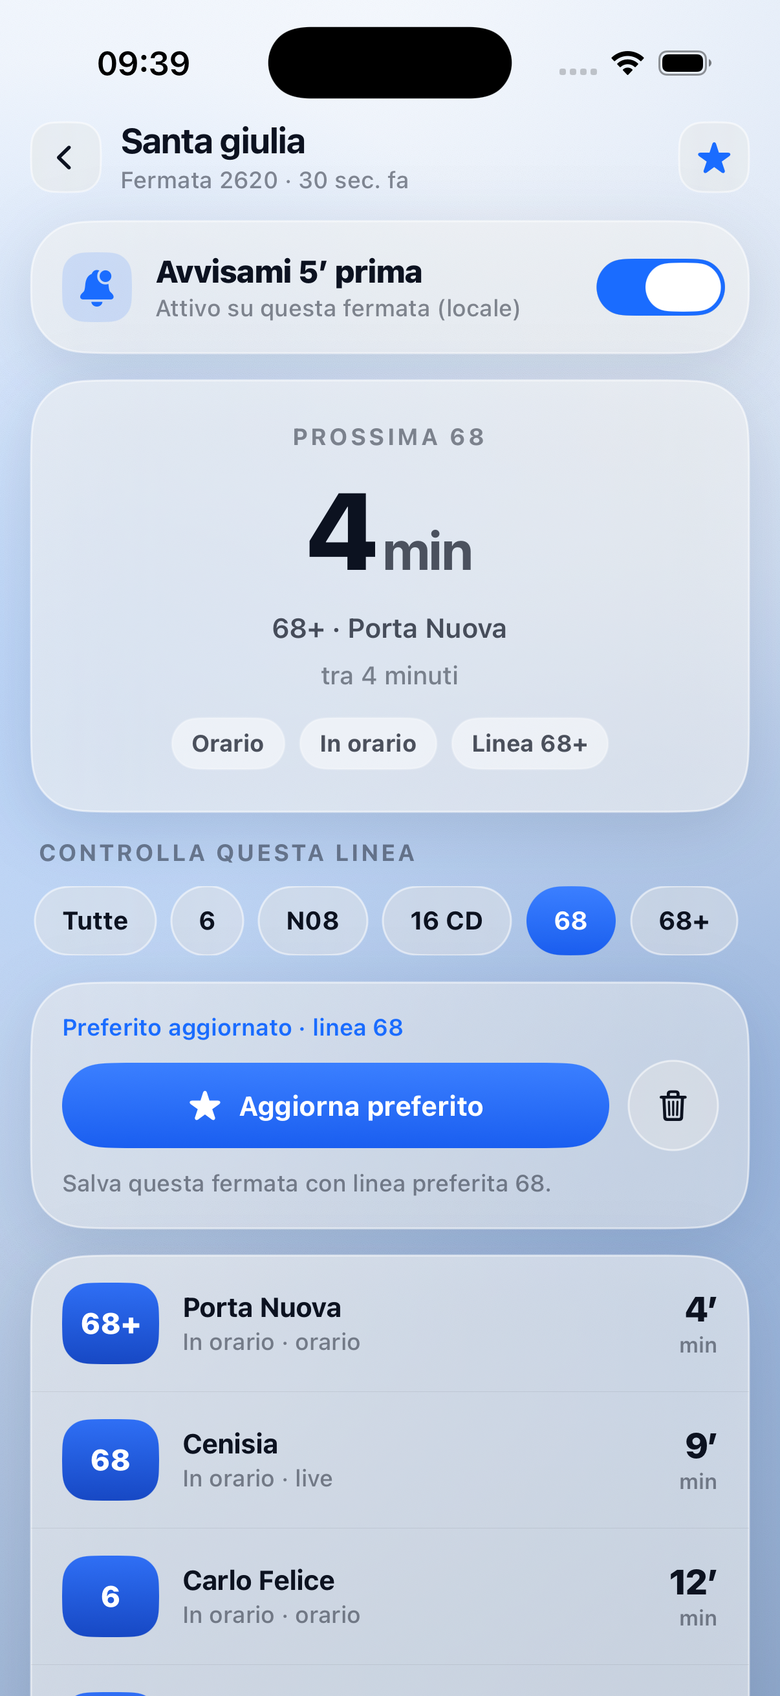
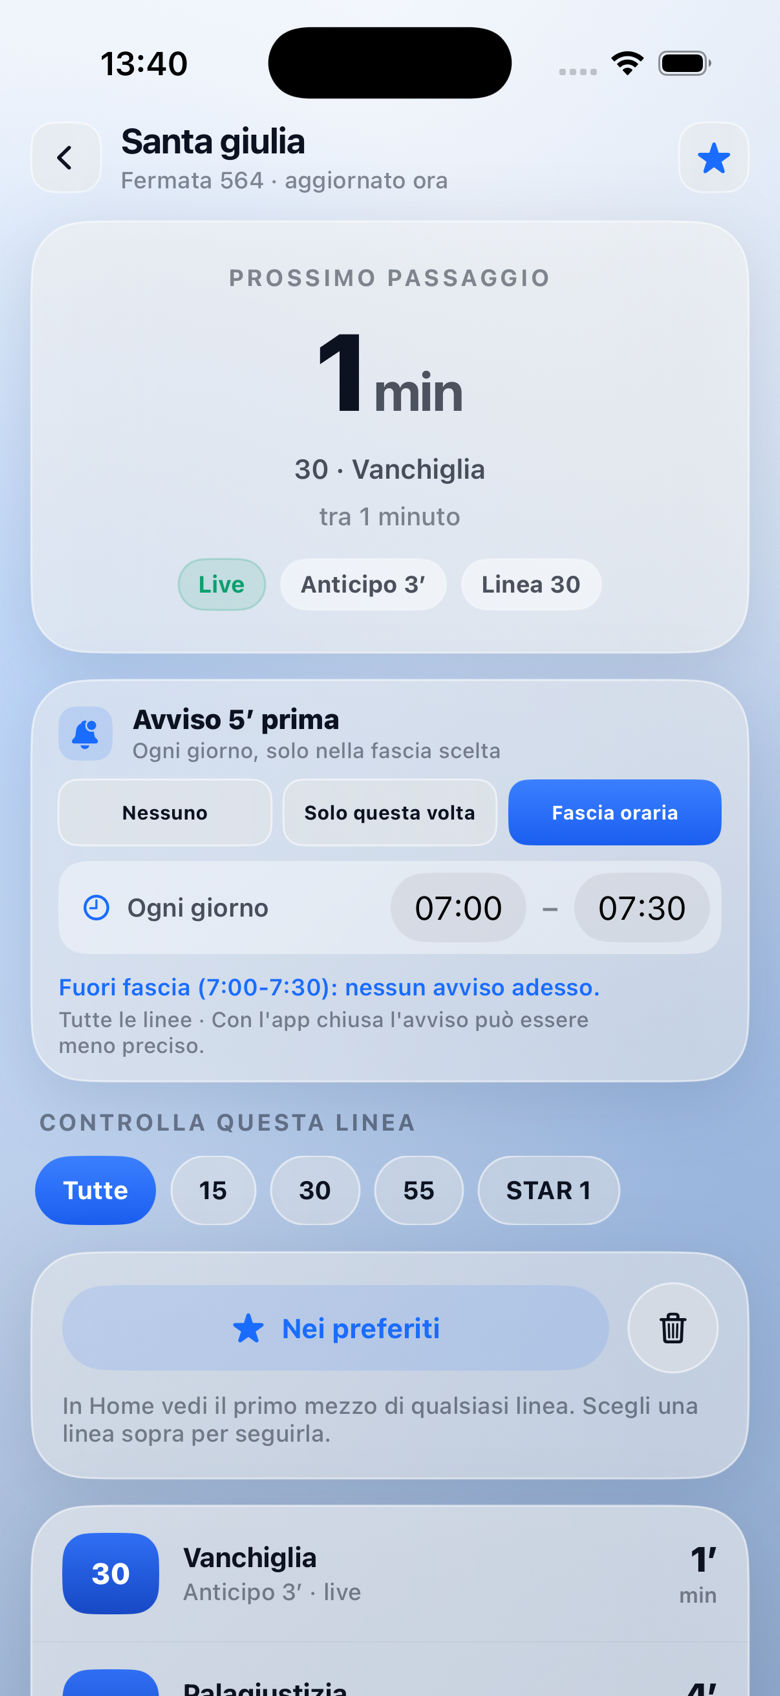
Aggiorna screenshot Fermata con la nuova UI avvisi

diff --git a/index.html b/index.html
@@ -390,7 +390,7 @@
           <figure class="fade">
             <div class="phone">
               <div class="screen">
-                <img src="shot-stop.png" width="780" height="1695" alt="Fermata con avviso 5 minuti" />
+                <img src="shot-stop.png" width="780" height="1695" alt="Fermata Santa Giulia: prossimo passaggio linea 30 tra 1 minuto, avviso 5 minuti prima in fascia oraria" />
               </div>
             </div>
             <figcaption>Fermata</figcaption>
